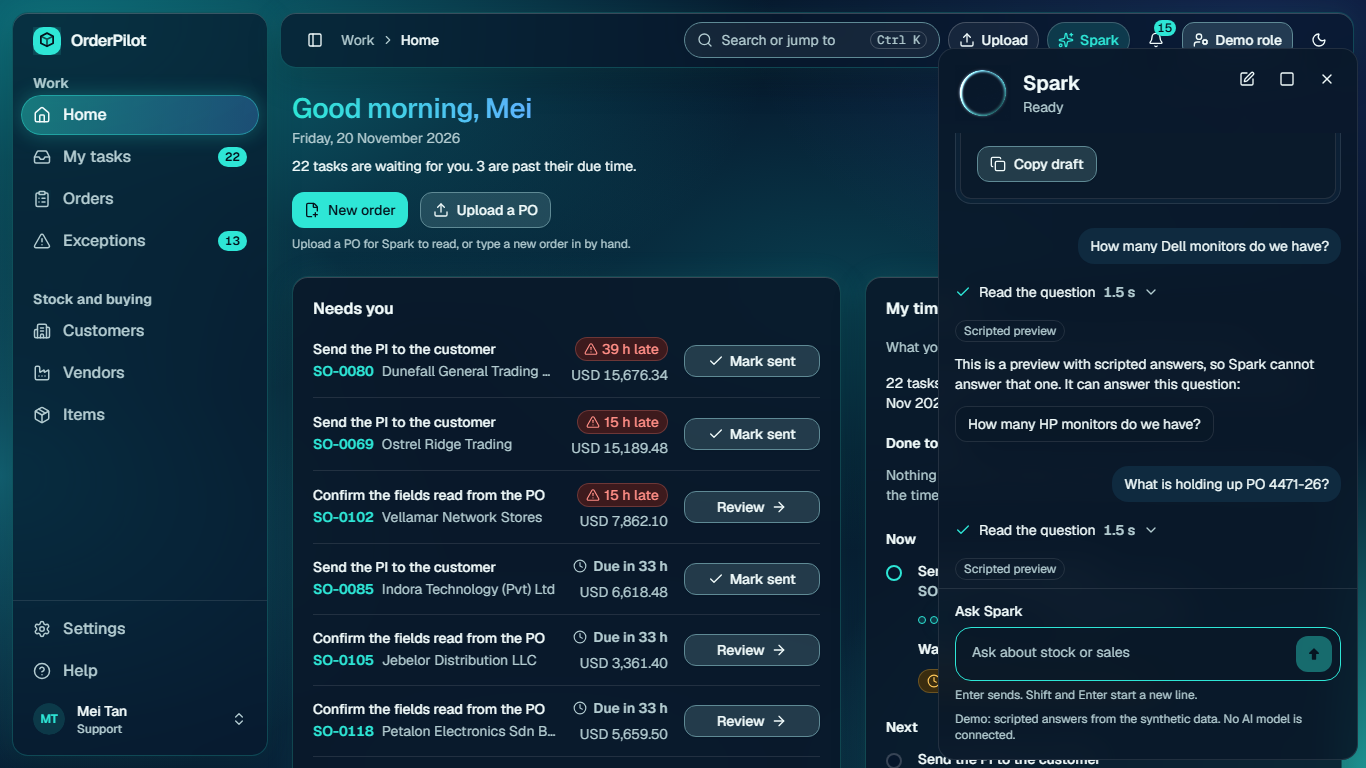
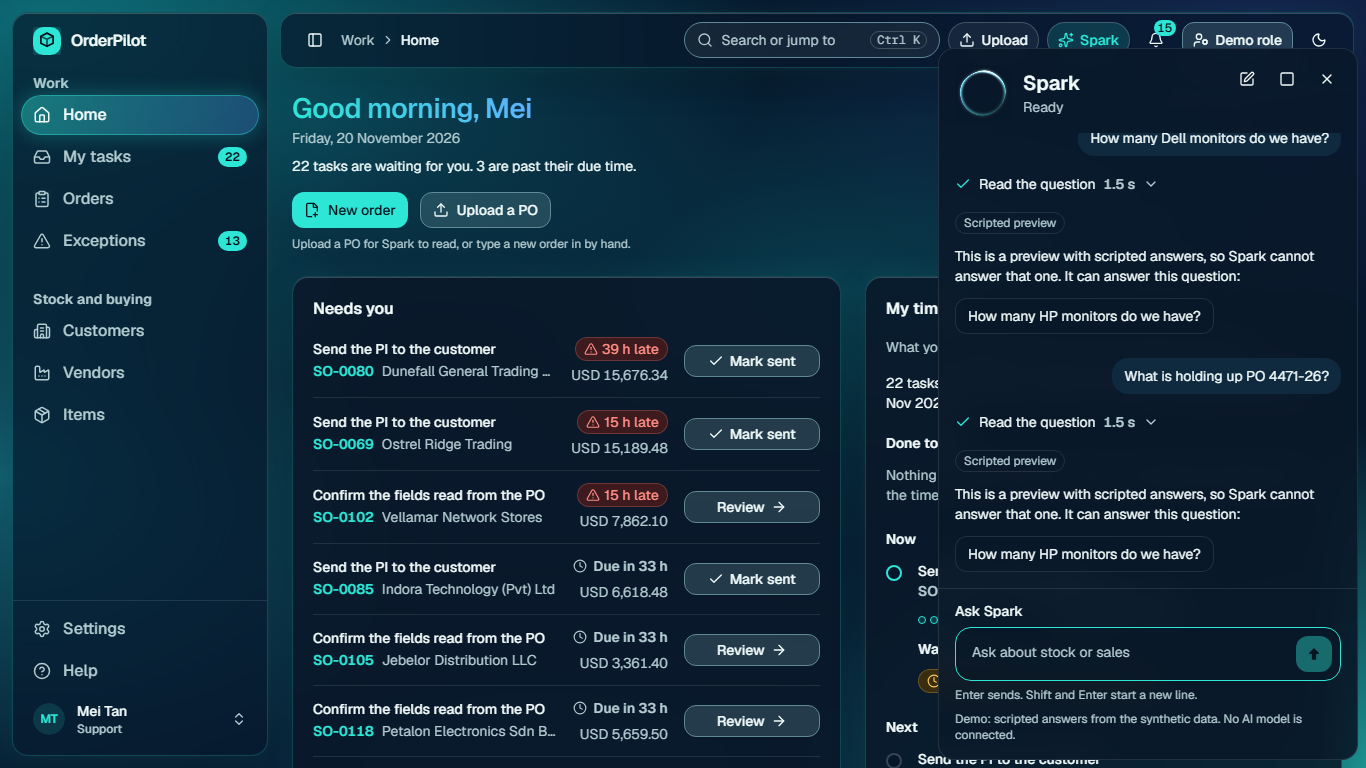
docs: retake the Spark panel pictures with the newest answer in view

diff --git a/docs/design/screenshots/platform/spark-panel/README.md b/docs/design/screenshots/platform/spark-panel/README.md
@@ -1,11 +1,13 @@
 # Spark panel screenshots
 
-Taken on 20 Nov 2026 at 1366 x 768 from a Docker build of this branch at commit 0d3a1085, on the synthetic demo data.
+Taken on 20 Nov 2026 at 1366 x 768 from a Docker build of this branch at commit a465d5e4, on the synthetic demo data.
 
-| File                            | Role and page                    | What it shows                                                                                                                                                                                                                                                                                                                             |
-| ------------------------------- | -------------------------------- | ----------------------------------------------------------------------------------------------------------------------------------------------------------------------------------------------------------------------------------------------------------------------------------------------------------------------------------------- |
-| `spark-three-answers-light.png` | Support, Home, Spark open, light | After three questions (HP monitors, Dell monitors, PO 4471-26): the input "Ask Spark" at the foot of the panel, each reply marked "Scripted preview", and the plain reply to the Dell question with one suggestion. The newest reply's sentence is just below the visible edge of the thread (about 108 px) until the thread is scrolled. |
-| `spark-three-answers-dark.png`  | Support, Home, Spark open, dark  | The same three questions in dark.                                                                                                                                                                                                                                                                                                         |
-| `spark-draft-reply-light.png`   | Support, Home, Spark open, light | The drafted reply to the customer for the HP monitor: "We have 874 available now. A further 146 are due on purchase orders."                                                                                                                                                                                                              |
+| File                            | Role and page                    | What it shows                                                                                                                                                                                                                                                                                                                  |
+| ------------------------------- | -------------------------------- | ------------------------------------------------------------------------------------------------------------------------------------------------------------------------------------------------------------------------------------------------------------------------------------------------------------------------------ |
+| `spark-three-answers-light.png` | Support, Home, Spark open, light | After three questions (HP monitors, Dell monitors, PO 4471-26): the input "Ask Spark" at the foot of the panel, each reply marked "Scripted preview", and the plain reply to the Dell question with one suggestion. The thread is at its end, so the newest reply, with its suggestion, is fully in view just above the input. |
+| `spark-three-answers-dark.png`  | Support, Home, Spark open, dark  | The same three questions in dark, with the newest reply fully in view.                                                                                                                                                                                                                                                         |
+| `spark-draft-reply-light.png`   | Support, Home, Spark open, light | The drafted reply to the customer for the HP monitor: "We have 874 available now. A further 146 are due on purchase orders."                                                                                                                                                                                                   |
 
 The input's box after the empty panel and after each of the three answers was y 636 to 672 every time, and the panel's box was y 48 to 760 and x 938 to 1358 every time, in light and in dark.
+
+The thread's scroll position equalled its maximum (482 of 482, 720 of 720, 958 of 958) after each of the three answers had finished, in light and in dark, with motion and with reduced motion. Scrolling up while an answer was being written was not undone, and the next question took the thread back to its end.
